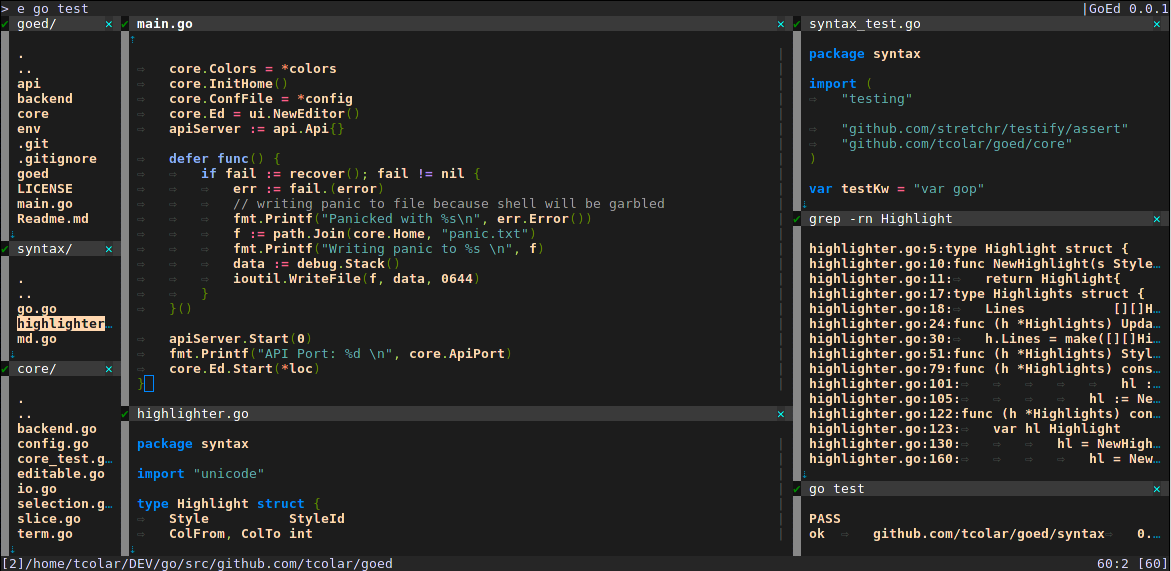
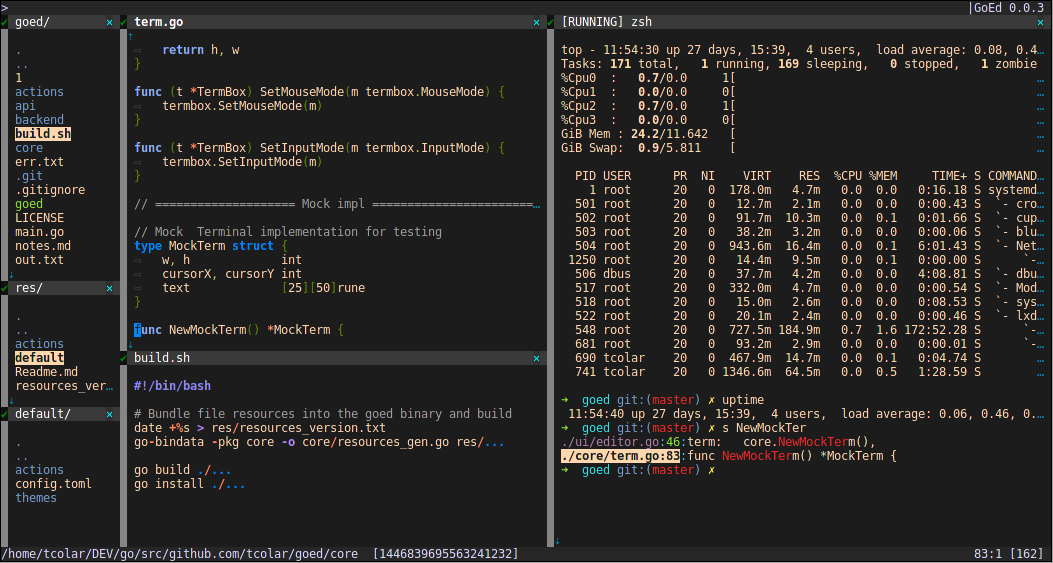
Updated screenshots

diff --git a/Readme.md b/Readme.md
@@ -10,10 +10,12 @@ The goal is to realease more stable and usable alphas & betas soon.
 
 ### What is it ?
 I would say that the main source of inspiration is **Acme**, however it will
-be more configurable and not require the mouse quite as much, but still leverage it.
+be more configurable and not require the mouse quite as much, but still leverages it.
 
 Early screenshot (6/2/2015): 
 ![Screenshot](https://raw.github.com/tcolar/goed/master/screenshot.png)
+
+Of course typically I have a much large window and resolution such as [this screenshot](screenshot_hd.png).
 
 ### Installation
 Prerequities: 
